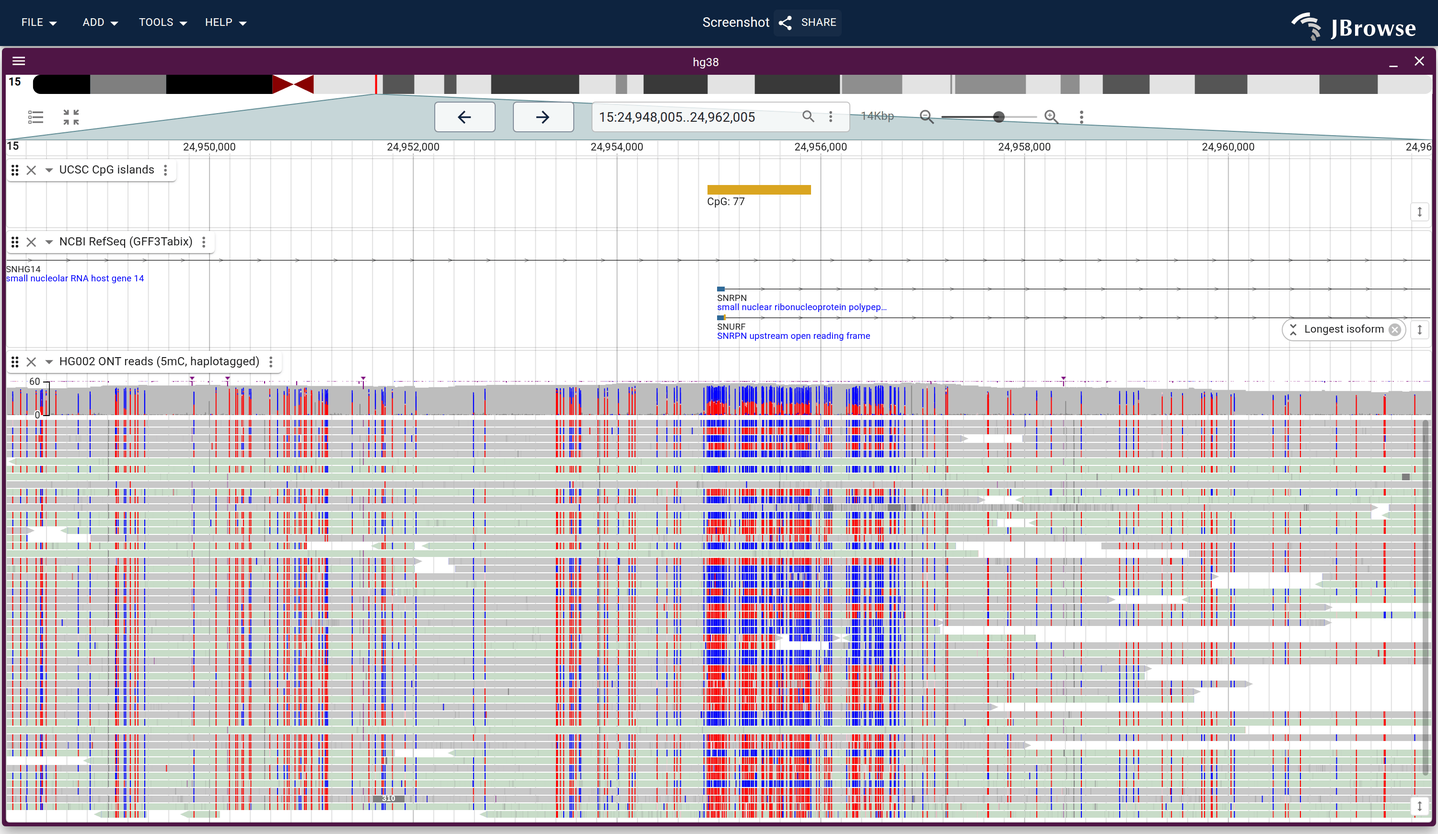
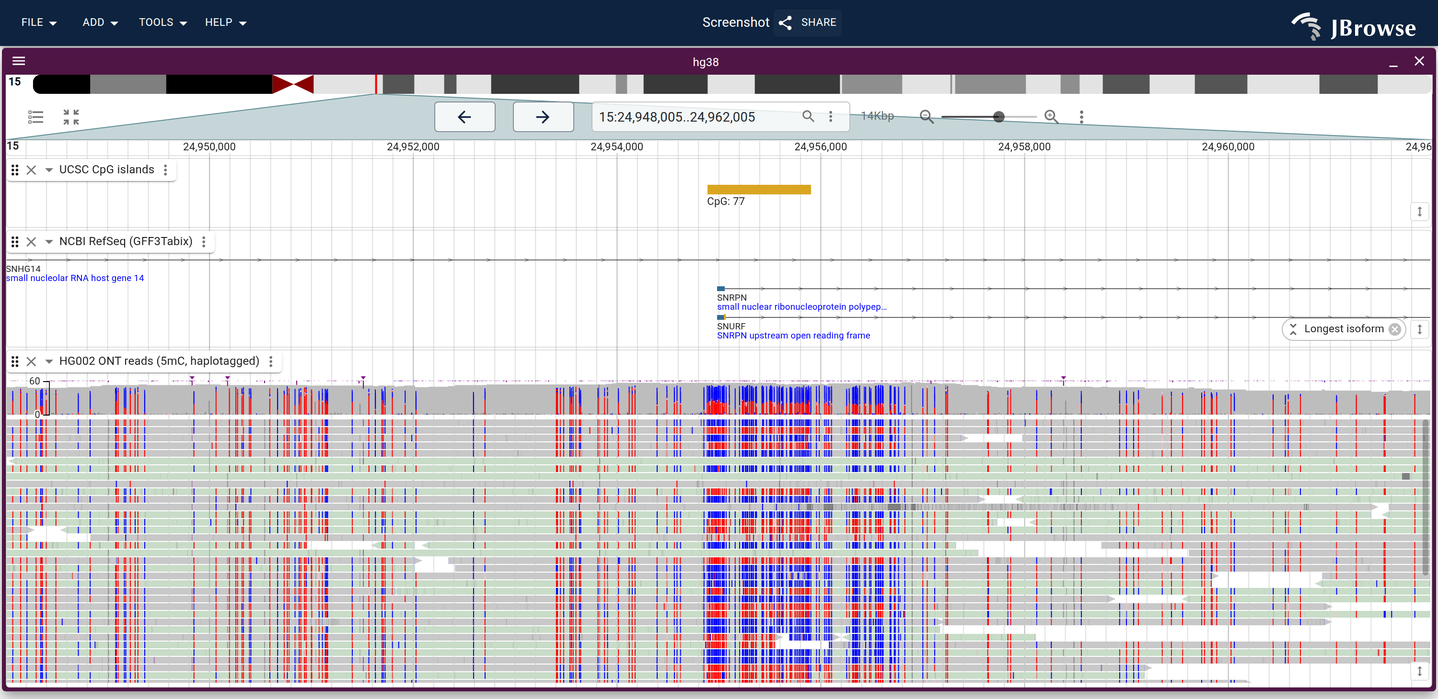
docs(methylation): compose the SNRPN before/after into one figure
Group by HP is the section's whole claim, and it was split across two pictures
sixty lines apart: the reader had to hold the interleaved pileup in mind to see
what the grouping did to it (reviewer). The two states are now one composed
figure in the section that explains the setting, built from two real captures
that differ only in `groupBy`. The reads lane is shorter in each half, since
this figure pays for it twice.

Claude-Session: https://claude.ai/code/session_01MyHV8buqv4ZRohv9DCCNE1

diff --git a/website/src/lib/galleryLinks.generated.ts b/website/src/lib/galleryLinks.generated.ts
@@ -146,7 +146,8 @@ export const specSessionUrls: Record<string, string> = {
   "methylation/arabidopsis_wgbs_contexts": "?config=test_data/arabidopsis_methylation/config_emseq_bisulfite.json&session=spec-%7B%22sessionTracks%22%3A%5B%7B%22type%22%3A%22AlignmentsTrack%22%2C%22trackId%22%3A%22arabidopsis_wgbs_cg%22%2C%22name%22%3A%22Per-read%20WGBS%20%E2%80%94%20CpG%20context%22%2C%22assemblyNames%22%3A%5B%22arabidopsis%22%5D%2C%22adapter%22%3A%7B%22type%22%3A%22CramAdapter%22%2C%22uri%22%3A%22https%3A%2F%2Fjbrowse.org%2Fdemos%2Fbisulfite%2Farabidopsis_wgbs_bisulfite.cram%22%7D%7D%2C%7B%22type%22%3A%22AlignmentsTrack%22%2C%22trackId%22%3A%22arabidopsis_wgbs_chg%22%2C%22name%22%3A%22Per-read%20WGBS%20%E2%80%94%20CHG%20context%22%2C%22assemblyNames%22%3A%5B%22arabidopsis%22%5D%2C%22adapter%22%3A%7B%22type%22%3A%22CramAdapter%22%2C%22uri%22%3A%22https%3A%2F%2Fjbrowse.org%2Fdemos%2Fbisulfite%2Farabidopsis_wgbs_bisulfite.cram%22%7D%7D%2C%7B%22type%22%3A%22AlignmentsTrack%22%2C%22trackId%22%3A%22arabidopsis_wgbs_chh%22%2C%22name%22%3A%22Per-read%20WGBS%20%E2%80%94%20CHH%20context%22%2C%22assemblyNames%22%3A%5B%22arabidopsis%22%5D%2C%22adapter%22%3A%7B%22type%22%3A%22CramAdapter%22%2C%22uri%22%3A%22https%3A%2F%2Fjbrowse.org%2Fdemos%2Fbisulfite%2Farabidopsis_wgbs_bisulfite.cram%22%7D%7D%5D%2C%22views%22%3A%5B%7B%22type%22%3A%22LinearGenomeView%22%2C%22assembly%22%3A%22arabidopsis%22%2C%22loc%22%3A%22NC_003070.9%3A4%2C398%2C000-4%2C412%2C000%22%2C%22tracks%22%3A%5B%7B%22trackId%22%3A%22arabidopsis_genes%22%7D%2C%7B%22trackId%22%3A%22arabidopsis_methyldackel%22%2C%22type%22%3A%22MultiLinearWiggleDisplay%22%2C%22defaultRendering%22%3A%22multirowxy%22%2C%22minScore%22%3A0%2C%22maxScore%22%3A100%2C%22height%22%3A170%7D%2C%7B%22trackId%22%3A%22arabidopsis_wgbs_cg%22%2C%22type%22%3A%22LinearAlignmentsDisplay%22%2C%22colorBy%22%3A%7B%22type%22%3A%22bisulfite%22%2C%22modifications%22%3A%7B%22cytosineContext%22%3A%22CG%22%7D%7D%2C%22showCoverage%22%3Afalse%2C%22heightMode%22%3A%22fixed%22%2C%22featureHeight%22%3A3%2C%22featureSpacing%22%3A0%2C%22height%22%3A90%7D%2C%7B%22trackId%22%3A%22arabidopsis_wgbs_chg%22%2C%22type%22%3A%22LinearAlignmentsDisplay%22%2C%22colorBy%22%3A%7B%22type%22%3A%22bisulfite%22%2C%22modifications%22%3A%7B%22cytosineContext%22%3A%22CHG%22%7D%7D%2C%22showCoverage%22%3Afalse%2C%22heightMode%22%3A%22fixed%22%2C%22featureHeight%22%3A3%2C%22featureSpacing%22%3A0%2C%22height%22%3A90%7D%2C%7B%22trackId%22%3A%22arabidopsis_wgbs_chh%22%2C%22type%22%3A%22LinearAlignmentsDisplay%22%2C%22colorBy%22%3A%7B%22type%22%3A%22bisulfite%22%2C%22modifications%22%3A%7B%22cytosineContext%22%3A%22CHH%22%7D%7D%2C%22showCoverage%22%3Afalse%2C%22heightMode%22%3A%22fixed%22%2C%22featureHeight%22%3A3%2C%22featureSpacing%22%3A0%2C%22height%22%3A90%7D%5D%7D%5D%7D&sessionName=Screenshot",
   "methylation/arabidopsis_wgbs_two_color": "?config=test_data/arabidopsis_methylation/config_emseq_bisulfite.json&session=spec-%7B%22sessionTracks%22%3A%5B%7B%22type%22%3A%22AlignmentsTrack%22%2C%22trackId%22%3A%22arabidopsis_wgbs_methylated_only%22%2C%22name%22%3A%22CpG%20methylation%20(methylated%20only)%22%2C%22assemblyNames%22%3A%5B%22arabidopsis%22%5D%2C%22adapter%22%3A%7B%22type%22%3A%22CramAdapter%22%2C%22uri%22%3A%22https%3A%2F%2Fjbrowse.org%2Fdemos%2Fbisulfite%2Farabidopsis_wgbs_bisulfite.cram%22%7D%7D%2C%7B%22type%22%3A%22AlignmentsTrack%22%2C%22trackId%22%3A%22arabidopsis_wgbs_two_color%22%2C%22name%22%3A%22CpG%20methylation%20(show%20unmethylated)%22%2C%22assemblyNames%22%3A%5B%22arabidopsis%22%5D%2C%22adapter%22%3A%7B%22type%22%3A%22CramAdapter%22%2C%22uri%22%3A%22https%3A%2F%2Fjbrowse.org%2Fdemos%2Fbisulfite%2Farabidopsis_wgbs_bisulfite.cram%22%7D%7D%5D%2C%22views%22%3A%5B%7B%22type%22%3A%22LinearGenomeView%22%2C%22assembly%22%3A%22arabidopsis%22%2C%22loc%22%3A%22NC_003070.9%3A4%2C404%2C000-4%2C408%2C500%22%2C%22tracks%22%3A%5B%7B%22trackId%22%3A%22arabidopsis_genes%22%2C%22height%22%3A80%7D%2C%7B%22trackId%22%3A%22arabidopsis_wgbs_methylated_only%22%2C%22type%22%3A%22LinearAlignmentsDisplay%22%2C%22colorBy%22%3A%7B%22type%22%3A%22bisulfite%22%2C%22modifications%22%3A%7B%22cytosineContext%22%3A%22CG%22%7D%7D%2C%22showCoverage%22%3Afalse%2C%22heightMode%22%3A%22fixed%22%2C%22featureHeight%22%3A5%2C%22featureSpacing%22%3A1%2C%22height%22%3A240%7D%2C%7B%22trackId%22%3A%22arabidopsis_wgbs_two_color%22%2C%22type%22%3A%22LinearAlignmentsDisplay%22%2C%22colorBy%22%3A%7B%22type%22%3A%22bisulfite%22%2C%22modifications%22%3A%7B%22cytosineContext%22%3A%22CG%22%2C%22twoColor%22%3Atrue%7D%7D%2C%22showCoverage%22%3Afalse%2C%22heightMode%22%3A%22fixed%22%2C%22featureHeight%22%3A5%2C%22featureSpacing%22%3A1%2C%22height%22%3A240%7D%5D%7D%5D%7D&sessionName=Screenshot",
   "methylation/chromatin_accessibility_6ma": "?config=test_data/config_demo.json&session=spec-%7B%22sessionTracks%22%3A%5B%7B%22type%22%3A%22FeatureTrack%22%2C%22trackId%22%3A%22gencode_promoter_hg38_ucsc%22%2C%22name%22%3A%22GENCODE%20v48%20promoter%20windows%20(UCSC)%22%2C%22assemblyNames%22%3A%5B%22hg38%22%5D%2C%22adapter%22%3A%7B%22type%22%3A%22Gff3TabixAdapter%22%2C%22gffGzLocation%22%3A%7B%22uri%22%3A%22https%3A%2F%2Fjbrowse.org%2Fucsc%2Fhg38%2Fgencode.v48.promoter_windows.sorted.gff3.gz%22%2C%22locationType%22%3A%22UriLocation%22%7D%2C%22index%22%3A%7B%22location%22%3A%7B%22uri%22%3A%22https%3A%2F%2Fjbrowse.org%2Fucsc%2Fhg38%2Fgencode.v48.promoter_windows.sorted.gff3.gz.csi%22%2C%22locationType%22%3A%22UriLocation%22%7D%2C%22indexType%22%3A%22CSI%22%7D%7D%7D%5D%2C%22views%22%3A%5B%7B%22type%22%3A%22LinearGenomeView%22%2C%22assembly%22%3A%22hg38%22%2C%22loc%22%3A%22chr12%3A6%2C528%2C000-6%2C543%2C000%22%2C%22tracks%22%3A%5B%7B%22trackId%22%3A%22ncbi_refseq_109_hg38_latest%22%2C%22type%22%3A%22LinearBasicDisplay%22%2C%22geneGlyphMode%22%3A%22longestCoding%22%7D%2C%22gencode_promoter_hg38_ucsc%22%2C%7B%22trackId%22%3A%22PAY22766-nanopore%22%2C%22type%22%3A%22LinearAlignmentsDisplay%22%2C%22colorBy%22%3A%7B%22type%22%3A%22modifications%22%2C%22modifications%22%3A%7B%22shownModifications%22%3A%5B%22a%22%5D%7D%7D%2C%22heightMode%22%3A%22fixed%22%2C%22featureHeight%22%3A3%2C%22featureSpacing%22%3A0%2C%22showLegend%22%3Atrue%7D%2C%7B%22trackId%22%3A%22PBA15131-nanopore%22%2C%22type%22%3A%22LinearAlignmentsDisplay%22%2C%22colorBy%22%3A%7B%22type%22%3A%22modifications%22%2C%22modifications%22%3A%7B%22shownModifications%22%3A%5B%22a%22%5D%7D%7D%2C%22heightMode%22%3A%22fixed%22%2C%22featureHeight%22%3A3%2C%22featureSpacing%22%3A0%7D%5D%7D%5D%7D&sessionName=Screenshot",
-  "methylation/hg002_snrpn_ungrouped": "?config=test_data/config_demo.json&session=spec-%7B%22views%22%3A%5B%7B%22type%22%3A%22LinearGenomeView%22%2C%22assembly%22%3A%22hg38%22%2C%22loc%22%3A%22chr15%3A24%2C948%2C000-24%2C962%2C000%22%2C%22tracks%22%3A%5B%7B%22trackId%22%3A%22cpgisland_ucsc_hg38%22%2C%22type%22%3A%22LinearBasicDisplay%22%2C%22height%22%3A40%7D%2C%7B%22trackId%22%3A%22ncbi_refseq_109_hg38_latest%22%2C%22type%22%3A%22LinearBasicDisplay%22%2C%22geneGlyphMode%22%3A%22longestCoding%22%2C%22displayMode%22%3A%22compact%22%2C%22height%22%3A90%7D%2C%7B%22trackId%22%3A%22HG002_snrpn_5mC_reads%22%2C%22type%22%3A%22LinearAlignmentsDisplay%22%2C%22height%22%3A460%2C%22forceLoad%22%3Atrue%2C%22colorBy%22%3A%7B%22type%22%3A%22modifications%22%2C%22modifications%22%3A%7B%22fillUnmarked%22%3Atrue%7D%7D%7D%5D%7D%5D%7D&sessionName=Screenshot",
+  "methylation/hg002_snrpn_ungrouped": "?config=test_data/config_demo.json&session=spec-%7B%22views%22%3A%5B%7B%22type%22%3A%22LinearGenomeView%22%2C%22assembly%22%3A%22hg38%22%2C%22loc%22%3A%22chr15%3A24%2C948%2C000-24%2C962%2C000%22%2C%22tracks%22%3A%5B%7B%22trackId%22%3A%22cpgisland_ucsc_hg38%22%2C%22type%22%3A%22LinearBasicDisplay%22%2C%22height%22%3A40%7D%2C%7B%22trackId%22%3A%22ncbi_refseq_109_hg38_latest%22%2C%22type%22%3A%22LinearBasicDisplay%22%2C%22geneGlyphMode%22%3A%22longestCoding%22%2C%22displayMode%22%3A%22compact%22%2C%22height%22%3A90%7D%2C%7B%22trackId%22%3A%22HG002_snrpn_5mC_reads%22%2C%22type%22%3A%22LinearAlignmentsDisplay%22%2C%22height%22%3A320%2C%22forceLoad%22%3Atrue%2C%22colorBy%22%3A%7B%22type%22%3A%22modifications%22%2C%22modifications%22%3A%7B%22fillUnmarked%22%3Atrue%7D%7D%7D%5D%7D%5D%7D&sessionName=Screenshot",
+  "methylation/hg002_snrpn_grouped": "?config=test_data/config_demo.json&session=spec-%7B%22views%22%3A%5B%7B%22type%22%3A%22LinearGenomeView%22%2C%22assembly%22%3A%22hg38%22%2C%22loc%22%3A%22chr15%3A24%2C948%2C000-24%2C962%2C000%22%2C%22tracks%22%3A%5B%7B%22trackId%22%3A%22cpgisland_ucsc_hg38%22%2C%22type%22%3A%22LinearBasicDisplay%22%2C%22height%22%3A40%7D%2C%7B%22trackId%22%3A%22ncbi_refseq_109_hg38_latest%22%2C%22type%22%3A%22LinearBasicDisplay%22%2C%22geneGlyphMode%22%3A%22longestCoding%22%2C%22displayMode%22%3A%22compact%22%2C%22height%22%3A90%7D%2C%7B%22trackId%22%3A%22HG002_snrpn_5mC_reads%22%2C%22type%22%3A%22LinearAlignmentsDisplay%22%2C%22height%22%3A320%2C%22forceLoad%22%3Atrue%2C%22groupBy%22%3A%7B%22type%22%3A%22tag%22%2C%22tag%22%3A%22HP%22%7D%2C%22colorBy%22%3A%7B%22type%22%3A%22modifications%22%2C%22modifications%22%3A%7B%22fillUnmarked%22%3Atrue%7D%7D%7D%5D%7D%5D%7D&sessionName=Screenshot",
   "methylation/hg002_snrpn_combined": "?config=test_data/config_demo.json&session=spec-%7B%22views%22%3A%5B%7B%22type%22%3A%22LinearGenomeView%22%2C%22assembly%22%3A%22hg38%22%2C%22loc%22%3A%22chr15%3A24%2C948%2C000-24%2C962%2C000%22%2C%22tracks%22%3A%5B%7B%22trackId%22%3A%22cpgisland_ucsc_hg38%22%2C%22type%22%3A%22LinearBasicDisplay%22%2C%22height%22%3A40%7D%2C%7B%22trackId%22%3A%22ncbi_refseq_109_hg38_latest%22%2C%22type%22%3A%22LinearBasicDisplay%22%2C%22geneGlyphMode%22%3A%22longestCoding%22%2C%22displayMode%22%3A%22compact%22%2C%22height%22%3A90%7D%2C%7B%22trackId%22%3A%22HG002_snrpn_modkit_hp1%22%2C%22type%22%3A%22MultiLinearWiggleDisplay%22%2C%22defaultRendering%22%3A%22multirowxy%22%2C%22minScore%22%3A0%2C%22maxScore%22%3A100%2C%22height%22%3A90%7D%2C%7B%22trackId%22%3A%22HG002_snrpn_modkit_hp2%22%2C%22type%22%3A%22MultiLinearWiggleDisplay%22%2C%22defaultRendering%22%3A%22multirowxy%22%2C%22minScore%22%3A0%2C%22maxScore%22%3A100%2C%22height%22%3A90%7D%2C%7B%22trackId%22%3A%22HG002_snrpn_5mC_reads%22%2C%22type%22%3A%22LinearAlignmentsDisplay%22%2C%22height%22%3A460%2C%22forceLoad%22%3Atrue%2C%22groupBy%22%3A%7B%22type%22%3A%22tag%22%2C%22tag%22%3A%22HP%22%7D%2C%22colorBy%22%3A%7B%22type%22%3A%22modifications%22%2C%22modifications%22%3A%7B%22fillUnmarked%22%3Atrue%7D%7D%7D%5D%7D%5D%7D&sessionName=Screenshot",
   "ld/lct_pooled_vs_panel": "?config=https%3A%2F%2Fjbrowse.org%2Fucsc%2Fhg19%2Fconfig.json&session=spec-%7B%22sessionTracks%22%3A%5B%7B%22type%22%3A%22VariantTrack%22%2C%22trackId%22%3A%22kgp_lct_pooled%22%2C%22name%22%3A%22All%20panels%20pooled%20(r%C2%B2)%22%2C%22assemblyNames%22%3A%5B%22hg19%22%5D%2C%22adapter%22%3A%7B%22type%22%3A%22VcfTabixAdapter%22%2C%22uri%22%3A%22https%3A%2F%2Fjbrowse.org%2Fdemos%2Fpopgen%2Flct_1kg_chr2_pooled_wide.vcf.gz%22%2C%22fetchSizeLimit%22%3A500000000%7D%2C%22displays%22%3A%5B%7B%22type%22%3A%22LDDisplay%22%2C%22showLDTriangle%22%3Atrue%2C%22showLegend%22%3Atrue%2C%22showRecombination%22%3Atrue%2C%22minorAlleleFrequencyFilter%22%3A0.35%2C%22height%22%3A330%2C%22useGenomicPositions%22%3Atrue%7D%5D%7D%2C%7B%22type%22%3A%22VariantTrack%22%2C%22trackId%22%3A%22kgp_lct_panel%22%2C%22name%22%3A%22One%20population%20panel%20(r%C2%B2)%22%2C%22assemblyNames%22%3A%5B%22hg19%22%5D%2C%22adapter%22%3A%7B%22type%22%3A%22VcfTabixAdapter%22%2C%22uri%22%3A%22https%3A%2F%2Fjbrowse.org%2Fdemos%2Fpopgen%2Flct_1kg_chr2_eur_wide.vcf.gz%22%2C%22fetchSizeLimit%22%3A500000000%7D%2C%22displays%22%3A%5B%7B%22type%22%3A%22LDDisplay%22%2C%22showLDTriangle%22%3Atrue%2C%22showLegend%22%3Atrue%2C%22showRecombination%22%3Atrue%2C%22minorAlleleFrequencyFilter%22%3A0.35%2C%22height%22%3A330%2C%22useGenomicPositions%22%3Atrue%7D%5D%7D%5D%2C%22views%22%3A%5B%7B%22type%22%3A%22LinearGenomeView%22%2C%22assembly%22%3A%22hg19%22%2C%22loc%22%3A%22chr2%3A134%2C700%2C000-137%2C800%2C000%22%2C%22highlight%22%3A%5B%7B%22refName%22%3A%22chr2%22%2C%22start%22%3A136545410%2C%22end%22%3A136634000%2C%22assemblyName%22%3A%22hg19%22%7D%5D%2C%22tracks%22%3A%5B%7B%22trackId%22%3A%22hg19-ncbiRefSeqCurated%22%2C%22type%22%3A%22LinearBasicDisplay%22%2C%22height%22%3A60%2C%22showOnlyGenes%22%3Atrue%7D%2C%7B%22trackId%22%3A%22kgp_lct_pooled%22%2C%22type%22%3A%22LDDisplay%22%7D%2C%7B%22trackId%22%3A%22kgp_lct_panel%22%2C%22type%22%3A%22LDDisplay%22%7D%5D%7D%5D%7D&sessionName=Screenshot",
   "ld/anopheles_2la": "?config=https%3A%2F%2Fjbrowse.org%2Fucsc%2FanoGam3%2Fconfig.json&session=spec-%7B%22sessionTracks%22%3A%5B%7B%22type%22%3A%22LDTrack%22%2C%22trackId%22%3A%22ag1000g_2l_cmgam%22%2C%22name%22%3A%22Cameroon%2C%20both%20arrangements%20segregating%20(r%C2%B2)%22%2C%22assemblyNames%22%3A%5B%22anoGam3%22%5D%2C%22adapter%22%3A%7B%22type%22%3A%22PlinkLDTabixAdapter%22%2C%22uri%22%3A%22https%3A%2F%2Fjbrowse.org%2Fdemos%2Fpopgen%2Fag1000g_2L_CMgam.ld.gz%22%7D%2C%22displays%22%3A%5B%7B%22type%22%3A%22LDTrackDisplay%22%2C%22ldMetric%22%3A%22r2%22%2C%22useGenomicPositions%22%3Atrue%2C%22showLegend%22%3Atrue%2C%22height%22%3A300%7D%5D%7D%2C%7B%22type%22%3A%22VariantTrack%22%2C%22trackId%22%3A%22ag1000g_2la_karyotype_cmgam%22%2C%22name%22%3A%22Cameroon%2C%20one%20row%20per%20mosquito%22%2C%22assemblyNames%22%3A%5B%22anoGam3%22%5D%2C%22adapter%22%3A%7B%22type%22%3A%22VcfTabixAdapter%22%2C%22uri%22%3A%22https%3A%2F%2Fjbrowse.org%2Fdemos%2Fpopgen%2Fag1000g_2La_CMgam.vcf.gz%22%2C%22samplesTsvLocation%22%3A%7B%22uri%22%3A%22https%3A%2F%2Fjbrowse.org%2Fdemos%2Fpopgen%2Fag1000g_2La_CMgam_samples.tsv%22%7D%7D%2C%22displays%22%3A%5B%7B%22type%22%3A%22LinearMultiSampleVariantDisplay%22%2C%22groupBy%22%3A%22karyotype%22%2C%22colorBy%22%3A%22karyotype%22%2C%22referenceDrawingMode%22%3A%22skip%22%2C%22height%22%3A297%7D%5D%7D%2C%7B%22type%22%3A%22LDTrack%22%2C%22trackId%22%3A%22ag1000g_2l_gagam%22%2C%22name%22%3A%22Gabon%2C%20one%20arrangement%20in%20almost%20every%20mosquito%20(r%C2%B2)%22%2C%22assemblyNames%22%3A%5B%22anoGam3%22%5D%2C%22adapter%22%3A%7B%22type%22%3A%22PlinkLDTabixAdapter%22%2C%22uri%22%3A%22https%3A%2F%2Fjbrowse.org%2Fdemos%2Fpopgen%2Fag1000g_2L_GAgam.ld.gz%22%7D%2C%22displays%22%3A%5B%7B%22type%22%3A%22LDTrackDisplay%22%2C%22ldMetric%22%3A%22r2%22%2C%22useGenomicPositions%22%3Atrue%2C%22showLegend%22%3Atrue%2C%22height%22%3A300%7D%5D%7D%2C%7B%22type%22%3A%22VariantTrack%22%2C%22trackId%22%3A%22ag1000g_2la_karyotype_gagam%22%2C%22name%22%3A%22Gabon%2C%20one%20row%20per%20mosquito%22%2C%22assemblyNames%22%3A%5B%22anoGam3%22%5D%2C%22adapter%22%3A%7B%22type%22%3A%22VcfTabixAdapter%22%2C%22uri%22%3A%22https%3A%2F%2Fjbrowse.org%2Fdemos%2Fpopgen%2Fag1000g_2La_GAgam.vcf.gz%22%2C%22samplesTsvLocation%22%3A%7B%22uri%22%3A%22https%3A%2F%2Fjbrowse.org%2Fdemos%2Fpopgen%2Fag1000g_2La_GAgam_samples.tsv%22%7D%7D%2C%22displays%22%3A%5B%7B%22type%22%3A%22LinearMultiSampleVariantDisplay%22%2C%22groupBy%22%3A%22karyotype%22%2C%22colorBy%22%3A%22karyotype%22%2C%22referenceDrawingMode%22%3A%22skip%22%2C%22height%22%3A240%7D%5D%7D%5D%2C%22views%22%3A%5B%7B%22type%22%3A%22LinearGenomeView%22%2C%22assembly%22%3A%22anoGam3%22%2C%22loc%22%3A%22chr2L%22%2C%22tracks%22%3A%5B%7B%22trackId%22%3A%22ag1000g_2l_cmgam%22%2C%22type%22%3A%22LDTrackDisplay%22%7D%2C%7B%22trackId%22%3A%22ag1000g_2la_karyotype_cmgam%22%2C%22type%22%3A%22LinearMultiSampleVariantDisplay%22%7D%2C%7B%22trackId%22%3A%22ag1000g_2l_gagam%22%2C%22type%22%3A%22LDTrackDisplay%22%7D%2C%7B%22trackId%22%3A%22ag1000g_2la_karyotype_gagam%22%2C%22type%22%3A%22LinearMultiSampleVariantDisplay%22%7D%5D%7D%5D%7D&sessionName=Screenshot",
@@ -179,7 +180,7 @@ export const specSessionUrls: Record<string, string> = {
   "sv_cgiab/cnv_depth_baf": "?config=https%3A%2F%2Fjbrowse.org%2Fdemos%2Fcgiab%2Fconfig.json&session=spec-%7B%22sessionTracks%22%3A%5B%7B%22type%22%3A%22QuantitativeTrack%22%2C%22trackId%22%3A%22hg008_bicseq2%22%2C%22name%22%3A%22HG008-T%20copy%20ratio%2C%20segmented%20(NYGC%20BIC-seq2%2C%20log2%20T%2FN)%22%2C%22assemblyNames%22%3A%5B%22GRCh38_GIABv3%22%5D%2C%22adapter%22%3A%7B%22type%22%3A%22BedGraphAdapter%22%2C%22bedGraphLocation%22%3A%7B%22uri%22%3A%22https%3A%2F%2Fjbrowse.org%2Fdemos%2Fcgiab%2FHG008-T_bicseq2_log2ratio.bedgraph%22%2C%22locationType%22%3A%22UriLocation%22%7D%7D%7D%2C%7B%22type%22%3A%22QuantitativeTrack%22%2C%22trackId%22%3A%22hg008_depth%22%2C%22name%22%3A%22HG008-T%20HiFiCNV%20depth%22%2C%22assemblyNames%22%3A%5B%22GRCh38_GIABv3%22%5D%2C%22adapter%22%3A%7B%22type%22%3A%22BigWigAdapter%22%2C%22bigWigLocation%22%3A%7B%22uri%22%3A%22https%3A%2F%2Fjbrowse.org%2Fdemos%2Fcgiab%2FHG008-T.hificnv.depth.bw%22%2C%22locationType%22%3A%22UriLocation%22%7D%7D%7D%2C%7B%22type%22%3A%22QuantitativeTrack%22%2C%22trackId%22%3A%22hg008_baf%22%2C%22name%22%3A%22HG008-T%20B-allele%20frequency%20(BAF)%22%2C%22assemblyNames%22%3A%5B%22GRCh38_GIABv3%22%5D%2C%22adapter%22%3A%7B%22type%22%3A%22BigWigAdapter%22%2C%22bigWigLocation%22%3A%7B%22uri%22%3A%22https%3A%2F%2Fjbrowse.org%2Fdemos%2Fcgiab%2FHG008-T_baf.bcftools.bw%22%2C%22locationType%22%3A%22UriLocation%22%7D%2C%22resolutionMultiplier%22%3A0.001%7D%7D%5D%2C%22views%22%3A%5B%7B%22type%22%3A%22LinearGenomeView%22%2C%22assembly%22%3A%22GRCh38_GIABv3%22%2C%22loc%22%3A%22chr3%22%2C%22tracks%22%3A%5B%7B%22trackId%22%3A%22hg008_bicseq2%22%2C%22type%22%3A%22LinearWiggleDisplay%22%2C%22defaultRendering%22%3A%22line%22%2C%22useBicolor%22%3Afalse%2C%22displayCrossHatches%22%3Atrue%2C%22minScore%22%3A-2%2C%22maxScore%22%3A1.5%2C%22height%22%3A90%7D%2C%7B%22trackId%22%3A%22hg008_depth%22%2C%22type%22%3A%22LinearWiggleDisplay%22%2C%22defaultRendering%22%3A%22scatter%22%2C%22useBicolor%22%3Afalse%2C%22summaryScoreMode%22%3A%22avg%22%2C%22scatterPointSize%22%3A1%2C%22resolution%22%3A10%2C%22height%22%3A180%2C%22displayCrossHatches%22%3Atrue%7D%2C%7B%22trackId%22%3A%22hg008_baf%22%2C%22type%22%3A%22LinearWiggleDisplay%22%2C%22defaultRendering%22%3A%22scatter%22%2C%22scatterPointSize%22%3A1%2C%22minScore%22%3A0%2C%22maxScore%22%3A1%2C%22height%22%3A140%7D%2C%22hg008_cnv_calls%22%5D%7D%5D%7D&sessionName=Screenshot",
   "sv_cgiab/driver_cdkn2a_deletion": "?config=https%3A%2F%2Fjbrowse.org%2Fdemos%2Fcgiab%2Fconfig.json&session=spec-%7B%22sessionTracks%22%3A%5B%7B%22type%22%3A%22MultiQuantitativeTrack%22%2C%22trackId%22%3A%22hg008_tn_perbase%22%2C%22name%22%3A%22HG008%20tumor%20vs%20matched%20normal%20coverage%20(per-base)%22%2C%22assemblyNames%22%3A%5B%22GRCh38_GIABv3%22%5D%2C%22adapter%22%3A%7B%22type%22%3A%22MultiWiggleAdapter%22%2C%22subadapters%22%3A%5B%7B%22type%22%3A%22BigWigAdapter%22%2C%22name%22%3A%22HG008-T%20(tumor)%22%2C%22color%22%3A%22%23e41a1c%22%2C%22bigWigLocation%22%3A%7B%22uri%22%3A%22https%3A%2F%2Fjbrowse.org%2Fdemos%2Fcgiab%2FHG008-T_coverage_perbase.bw%22%2C%22locationType%22%3A%22UriLocation%22%7D%7D%2C%7B%22type%22%3A%22BigWigAdapter%22%2C%22name%22%3A%22HG008-N%20(normal)%22%2C%22color%22%3A%22%23377eb8%22%2C%22bigWigLocation%22%3A%7B%22uri%22%3A%22https%3A%2F%2Fjbrowse.org%2Fdemos%2Fcgiab%2FHG008-N-P_PacBio-HiFi-Revio_20240125_35x_GRCh38-GIABv3.cram.all.bw%22%2C%22locationType%22%3A%22UriLocation%22%7D%7D%5D%7D%7D%2C%7B%22type%22%3A%22AlignmentsTrack%22%2C%22trackId%22%3A%22hg008_t_reads_cdkn2a%22%2C%22name%22%3A%22HG008-T%20PacBio%20HiFi%20reads%22%2C%22assemblyNames%22%3A%5B%22GRCh38_GIABv3%22%5D%2C%22adapter%22%3A%7B%22type%22%3A%22BamAdapter%22%2C%22fetchSizeLimit%22%3A30000000%2C%22bamLocation%22%3A%7B%22uri%22%3A%22https%3A%2F%2Fjbrowse.org%2Fdemos%2Fcgiab%2FHG008-T_PacBio-HiFi-Revio_116x.demo_slices.bam%22%2C%22locationType%22%3A%22UriLocation%22%7D%2C%22index%22%3A%7B%22indexType%22%3A%22BAI%22%2C%22location%22%3A%7B%22uri%22%3A%22https%3A%2F%2Fjbrowse.org%2Fdemos%2Fcgiab%2FHG008-T_PacBio-HiFi-Revio_116x.demo_slices.bam.bai%22%2C%22locationType%22%3A%22UriLocation%22%7D%7D%7D%7D%5D%2C%22views%22%3A%5B%7B%22type%22%3A%22LinearGenomeView%22%2C%22assembly%22%3A%22GRCh38_GIABv3%22%2C%22loc%22%3A%22chr9%3A21%2C930%2C000-21%2C990%2C000%22%2C%22trackLabels%22%3A%22offset%22%2C%22tracks%22%3A%5B%7B%22trackId%22%3A%22hg38_ncbiRefSeq_ucsc%22%2C%22type%22%3A%22LinearBasicDisplay%22%2C%22geneGlyphMode%22%3A%22longestCoding%22%7D%2C%7B%22trackId%22%3A%22hg008_tn_perbase%22%2C%22type%22%3A%22MultiLinearWiggleDisplay%22%2C%22defaultRendering%22%3A%22multirowxy%22%2C%22summaryScoreMode%22%3A%22avg%22%2C%22minScore%22%3A0%2C%22maxScore%22%3A80%2C%22resolution%22%3A10%2C%22displayCrossHatches%22%3Afalse%2C%22height%22%3A280%7D%2C%7B%22trackId%22%3A%22hg008_t_reads_cdkn2a%22%2C%22type%22%3A%22LinearAlignmentsDisplay%22%2C%22heightMode%22%3A%22fixed%22%2C%22featureHeight%22%3A1%2C%22height%22%3A160%7D%2C%22hg008_cnv_calls%22%5D%7D%5D%7D&sessionName=Screenshot",
   "sv_cgiab/driver_kras_gain": "?config=https%3A%2F%2Fjbrowse.org%2Fdemos%2Fcgiab%2Fconfig.json&session=spec-%7B%22sessionTracks%22%3A%5B%7B%22type%22%3A%22QuantitativeTrack%22%2C%22trackId%22%3A%22hg008_bicseq2%22%2C%22name%22%3A%22HG008-T%20copy%20ratio%2C%20segmented%20(NYGC%20BIC-seq2%2C%20log2%20T%2FN)%22%2C%22assemblyNames%22%3A%5B%22GRCh38_GIABv3%22%5D%2C%22adapter%22%3A%7B%22type%22%3A%22BedGraphAdapter%22%2C%22bedGraphLocation%22%3A%7B%22uri%22%3A%22https%3A%2F%2Fjbrowse.org%2Fdemos%2Fcgiab%2FHG008-T_bicseq2_log2ratio.bedgraph%22%2C%22locationType%22%3A%22UriLocation%22%7D%7D%7D%2C%7B%22type%22%3A%22QuantitativeTrack%22%2C%22trackId%22%3A%22hg008_depth%22%2C%22name%22%3A%22HG008-T%20HiFiCNV%20depth%22%2C%22assemblyNames%22%3A%5B%22GRCh38_GIABv3%22%5D%2C%22adapter%22%3A%7B%22type%22%3A%22BigWigAdapter%22%2C%22bigWigLocation%22%3A%7B%22uri%22%3A%22https%3A%2F%2Fjbrowse.org%2Fdemos%2Fcgiab%2FHG008-T.hificnv.depth.bw%22%2C%22locationType%22%3A%22UriLocation%22%7D%7D%7D%2C%7B%22type%22%3A%22QuantitativeTrack%22%2C%22trackId%22%3A%22hg008_baf%22%2C%22name%22%3A%22HG008-T%20B-allele%20frequency%20(BAF)%22%2C%22assemblyNames%22%3A%5B%22GRCh38_GIABv3%22%5D%2C%22adapter%22%3A%7B%22type%22%3A%22BigWigAdapter%22%2C%22bigWigLocation%22%3A%7B%22uri%22%3A%22https%3A%2F%2Fjbrowse.org%2Fdemos%2Fcgiab%2FHG008-T_baf.bcftools.bw%22%2C%22locationType%22%3A%22UriLocation%22%7D%2C%22resolutionMultiplier%22%3A0.001%7D%7D%5D%2C%22views%22%3A%5B%7B%22type%22%3A%22LinearGenomeView%22%2C%22assembly%22%3A%22GRCh38_GIABv3%22%2C%22loc%22%3A%22chr12%3A23%2C000%2C000-27%2C500%2C000%22%2C%22tracks%22%3A%5B%7B%22trackId%22%3A%22hg38_ncbiRefSeq_ucsc%22%2C%22type%22%3A%22LinearBasicDisplay%22%2C%22height%22%3A150%2C%22featureHighlights%22%3A%5B%7B%22refName%22%3A%22chr12%22%2C%22start%22%3A25205245%2C%22end%22%3A25250929%2C%22name%22%3A%22KRAS%22%7D%5D%7D%2C%7B%22trackId%22%3A%22hg008_bicseq2%22%2C%22type%22%3A%22LinearWiggleDisplay%22%2C%22defaultRendering%22%3A%22line%22%2C%22useBicolor%22%3Afalse%2C%22displayCrossHatches%22%3Atrue%2C%22minScore%22%3A-2%2C%22maxScore%22%3A1.5%2C%22height%22%3A90%7D%2C%7B%22trackId%22%3A%22hg008_depth%22%2C%22type%22%3A%22LinearWiggleDisplay%22%2C%22defaultRendering%22%3A%22scatter%22%2C%22useBicolor%22%3Afalse%2C%22summaryScoreMode%22%3A%22avg%22%2C%22scatterPointSize%22%3A3%2C%22height%22%3A140%2C%22resolution%22%3A10%7D%2C%7B%22trackId%22%3A%22hg008_baf%22%2C%22type%22%3A%22LinearWiggleDisplay%22%2C%22defaultRendering%22%3A%22scatter%22%2C%22scatterPointSize%22%3A2%2C%22minScore%22%3A0%2C%22maxScore%22%3A1%2C%22height%22%3A140%7D%2C%22hg008_cnv_calls%22%5D%7D%5D%7D&sessionName=Screenshot",
-  "sv_cgiab/cnv_chr17_loh": "?config=https%3A%2F%2Fjbrowse.org%2Fdemos%2Fcgiab%2Fconfig.json&session=spec-%7B%22sessionTracks%22%3A%5B%7B%22type%22%3A%22QuantitativeTrack%22%2C%22trackId%22%3A%22hg008_bicseq2%22%2C%22name%22%3A%22HG008-T%20copy%20ratio%2C%20segmented%20(NYGC%20BIC-seq2%2C%20log2%20T%2FN)%22%2C%22assemblyNames%22%3A%5B%22GRCh38_GIABv3%22%5D%2C%22adapter%22%3A%7B%22type%22%3A%22BedGraphAdapter%22%2C%22bedGraphLocation%22%3A%7B%22uri%22%3A%22https%3A%2F%2Fjbrowse.org%2Fdemos%2Fcgiab%2FHG008-T_bicseq2_log2ratio.bedgraph%22%2C%22locationType%22%3A%22UriLocation%22%7D%7D%7D%2C%7B%22type%22%3A%22QuantitativeTrack%22%2C%22trackId%22%3A%22hg008_depth%22%2C%22name%22%3A%22HG008-T%20HiFiCNV%20depth%22%2C%22assemblyNames%22%3A%5B%22GRCh38_GIABv3%22%5D%2C%22adapter%22%3A%7B%22type%22%3A%22BigWigAdapter%22%2C%22bigWigLocation%22%3A%7B%22uri%22%3A%22https%3A%2F%2Fjbrowse.org%2Fdemos%2Fcgiab%2FHG008-T.hificnv.depth.bw%22%2C%22locationType%22%3A%22UriLocation%22%7D%7D%7D%2C%7B%22type%22%3A%22QuantitativeTrack%22%2C%22trackId%22%3A%22hg008_baf%22%2C%22name%22%3A%22HG008-T%20B-allele%20frequency%20(BAF)%22%2C%22assemblyNames%22%3A%5B%22GRCh38_GIABv3%22%5D%2C%22adapter%22%3A%7B%22type%22%3A%22BigWigAdapter%22%2C%22bigWigLocation%22%3A%7B%22uri%22%3A%22https%3A%2F%2Fjbrowse.org%2Fdemos%2Fcgiab%2FHG008-T_baf.bcftools.bw%22%2C%22locationType%22%3A%22UriLocation%22%7D%2C%22resolutionMultiplier%22%3A0.001%7D%7D%5D%2C%22views%22%3A%5B%7B%22type%22%3A%22LinearGenomeView%22%2C%22assembly%22%3A%22GRCh38_GIABv3%22%2C%22loc%22%3A%22chr17%3A1-83%2C257%2C441%22%2C%22trackLabels%22%3A%22offset%22%2C%22tracks%22%3A%5B%7B%22trackId%22%3A%22hg008_bicseq2%22%2C%22type%22%3A%22LinearWiggleDisplay%22%2C%22defaultRendering%22%3A%22line%22%2C%22useBicolor%22%3Afalse%2C%22displayCrossHatches%22%3Atrue%2C%22minScore%22%3A-2%2C%22maxScore%22%3A1.5%2C%22height%22%3A90%7D%2C%7B%22trackId%22%3A%22hg008_depth%22%2C%22type%22%3A%22LinearWiggleDisplay%22%2C%22defaultRendering%22%3A%22scatter%22%2C%22useBicolor%22%3Afalse%2C%22summaryScoreMode%22%3A%22avg%22%2C%22scatterPointSize%22%3A1%2C%22height%22%3A140%2C%22resolution%22%3A10%7D%2C%7B%22trackId%22%3A%22hg008_baf%22%2C%22type%22%3A%22LinearWiggleDisplay%22%2C%22defaultRendering%22%3A%22scatter%22%2C%22scatterPointSize%22%3A1%2C%22minScore%22%3A0%2C%22maxScore%22%3A1%2C%22height%22%3A140%7D%2C%22hg008_cnv_calls%22%5D%7D%5D%7D&sessionName=Screenshot",
+  "sv_cgiab/cnv_chr17_loh": "?config=https%3A%2F%2Fjbrowse.org%2Fdemos%2Fcgiab%2Fconfig.json&session=spec-%7B%22sessionTracks%22%3A%5B%7B%22type%22%3A%22FeatureTrack%22%2C%22trackId%22%3A%22mane_hg38%22%2C%22name%22%3A%22TP53%20(MANE%20Select%2C%20NCBI%20RefSeq%201.4)%22%2C%22assemblyNames%22%3A%5B%22GRCh38_GIABv3%22%5D%2C%22adapter%22%3A%7B%22type%22%3A%22BigBedAdapter%22%2C%22bigBedLocation%22%3A%7B%22uri%22%3A%22https%3A%2F%2Fftp.ncbi.nlm.nih.gov%2Frefseq%2FMANE%2Ftrackhub%2Fdata%2Frelease_1.4%2FMANE.GRCh38.v1.4.refseq.bb%22%2C%22locationType%22%3A%22UriLocation%22%7D%7D%7D%2C%7B%22type%22%3A%22QuantitativeTrack%22%2C%22trackId%22%3A%22hg008_bicseq2%22%2C%22name%22%3A%22HG008-T%20copy%20ratio%2C%20segmented%20(NYGC%20BIC-seq2%2C%20log2%20T%2FN)%22%2C%22assemblyNames%22%3A%5B%22GRCh38_GIABv3%22%5D%2C%22adapter%22%3A%7B%22type%22%3A%22BedGraphAdapter%22%2C%22bedGraphLocation%22%3A%7B%22uri%22%3A%22https%3A%2F%2Fjbrowse.org%2Fdemos%2Fcgiab%2FHG008-T_bicseq2_log2ratio.bedgraph%22%2C%22locationType%22%3A%22UriLocation%22%7D%7D%7D%2C%7B%22type%22%3A%22QuantitativeTrack%22%2C%22trackId%22%3A%22hg008_depth%22%2C%22name%22%3A%22HG008-T%20HiFiCNV%20depth%22%2C%22assemblyNames%22%3A%5B%22GRCh38_GIABv3%22%5D%2C%22adapter%22%3A%7B%22type%22%3A%22BigWigAdapter%22%2C%22bigWigLocation%22%3A%7B%22uri%22%3A%22https%3A%2F%2Fjbrowse.org%2Fdemos%2Fcgiab%2FHG008-T.hificnv.depth.bw%22%2C%22locationType%22%3A%22UriLocation%22%7D%7D%7D%2C%7B%22type%22%3A%22QuantitativeTrack%22%2C%22trackId%22%3A%22hg008_baf%22%2C%22name%22%3A%22HG008-T%20B-allele%20frequency%20(BAF)%22%2C%22assemblyNames%22%3A%5B%22GRCh38_GIABv3%22%5D%2C%22adapter%22%3A%7B%22type%22%3A%22BigWigAdapter%22%2C%22bigWigLocation%22%3A%7B%22uri%22%3A%22https%3A%2F%2Fjbrowse.org%2Fdemos%2Fcgiab%2FHG008-T_baf.bcftools.bw%22%2C%22locationType%22%3A%22UriLocation%22%7D%2C%22resolutionMultiplier%22%3A0.001%7D%7D%5D%2C%22views%22%3A%5B%7B%22type%22%3A%22LinearGenomeView%22%2C%22assembly%22%3A%22GRCh38_GIABv3%22%2C%22loc%22%3A%22chr17%3A1-83%2C257%2C441%22%2C%22tracks%22%3A%5B%7B%22trackId%22%3A%22mane_hg38%22%2C%22type%22%3A%22LinearBasicDisplay%22%2C%22jexlFiltersSetting%22%3A%5B%22jexl%3Aget(feature%2C'name')%3D%3D'NM_000546.6'%22%5D%2C%22forceLoad%22%3Atrue%2C%22height%22%3A50%7D%2C%7B%22trackId%22%3A%22hg008_bicseq2%22%2C%22type%22%3A%22LinearWiggleDisplay%22%2C%22defaultRendering%22%3A%22line%22%2C%22useBicolor%22%3Afalse%2C%22displayCrossHatches%22%3Atrue%2C%22minScore%22%3A-2%2C%22maxScore%22%3A1.5%2C%22height%22%3A90%7D%2C%7B%22trackId%22%3A%22hg008_depth%22%2C%22type%22%3A%22LinearWiggleDisplay%22%2C%22defaultRendering%22%3A%22scatter%22%2C%22useBicolor%22%3Afalse%2C%22summaryScoreMode%22%3A%22avg%22%2C%22scatterPointSize%22%3A1%2C%22height%22%3A140%2C%22resolution%22%3A10%7D%2C%7B%22trackId%22%3A%22hg008_baf%22%2C%22type%22%3A%22LinearWiggleDisplay%22%2C%22defaultRendering%22%3A%22scatter%22%2C%22scatterPointSize%22%3A1%2C%22minScore%22%3A0%2C%22maxScore%22%3A1%2C%22height%22%3A140%7D%2C%22hg008_cnv_calls%22%5D%7D%5D%7D&sessionName=Screenshot",
   "sv_cgiab/driver_smad4_loh": "?config=https%3A%2F%2Fjbrowse.org%2Fdemos%2Fcgiab%2Fconfig.json&session=spec-%7B%22sessionTracks%22%3A%5B%7B%22type%22%3A%22QuantitativeTrack%22%2C%22trackId%22%3A%22hg008_bicseq2%22%2C%22name%22%3A%22HG008-T%20copy%20ratio%2C%20segmented%20(NYGC%20BIC-seq2%2C%20log2%20T%2FN)%22%2C%22assemblyNames%22%3A%5B%22GRCh38_GIABv3%22%5D%2C%22adapter%22%3A%7B%22type%22%3A%22BedGraphAdapter%22%2C%22bedGraphLocation%22%3A%7B%22uri%22%3A%22https%3A%2F%2Fjbrowse.org%2Fdemos%2Fcgiab%2FHG008-T_bicseq2_log2ratio.bedgraph%22%2C%22locationType%22%3A%22UriLocation%22%7D%7D%7D%2C%7B%22type%22%3A%22QuantitativeTrack%22%2C%22trackId%22%3A%22hg008_depth%22%2C%22name%22%3A%22HG008-T%20HiFiCNV%20depth%22%2C%22assemblyNames%22%3A%5B%22GRCh38_GIABv3%22%5D%2C%22adapter%22%3A%7B%22type%22%3A%22BigWigAdapter%22%2C%22bigWigLocation%22%3A%7B%22uri%22%3A%22https%3A%2F%2Fjbrowse.org%2Fdemos%2Fcgiab%2FHG008-T.hificnv.depth.bw%22%2C%22locationType%22%3A%22UriLocation%22%7D%7D%7D%2C%7B%22type%22%3A%22QuantitativeTrack%22%2C%22trackId%22%3A%22hg008_baf%22%2C%22name%22%3A%22HG008-T%20B-allele%20frequency%20(BAF)%22%2C%22assemblyNames%22%3A%5B%22GRCh38_GIABv3%22%5D%2C%22adapter%22%3A%7B%22type%22%3A%22BigWigAdapter%22%2C%22bigWigLocation%22%3A%7B%22uri%22%3A%22https%3A%2F%2Fjbrowse.org%2Fdemos%2Fcgiab%2FHG008-T_baf.bcftools.bw%22%2C%22locationType%22%3A%22UriLocation%22%7D%2C%22resolutionMultiplier%22%3A0.001%7D%7D%5D%2C%22views%22%3A%5B%7B%22type%22%3A%22LinearGenomeView%22%2C%22assembly%22%3A%22GRCh38_GIABv3%22%2C%22loc%22%3A%22chr18%3A1-80%2C373%2C285%22%2C%22trackLabels%22%3A%22offset%22%2C%22tracks%22%3A%5B%7B%22trackId%22%3A%22hg008_bicseq2%22%2C%22type%22%3A%22LinearWiggleDisplay%22%2C%22defaultRendering%22%3A%22line%22%2C%22useBicolor%22%3Afalse%2C%22displayCrossHatches%22%3Atrue%2C%22minScore%22%3A-2%2C%22maxScore%22%3A1.5%2C%22height%22%3A90%7D%2C%7B%22trackId%22%3A%22hg008_depth%22%2C%22type%22%3A%22LinearWiggleDisplay%22%2C%22defaultRendering%22%3A%22scatter%22%2C%22useBicolor%22%3Afalse%2C%22summaryScoreMode%22%3A%22avg%22%2C%22scatterPointSize%22%3A1%2C%22height%22%3A140%2C%22resolution%22%3A10%7D%2C%7B%22trackId%22%3A%22hg008_baf%22%2C%22type%22%3A%22LinearWiggleDisplay%22%2C%22defaultRendering%22%3A%22scatter%22%2C%22scatterPointSize%22%3A1%2C%22minScore%22%3A0%2C%22maxScore%22%3A1%2C%22height%22%3A140%7D%2C%22hg008_cnv_calls%22%5D%7D%5D%7D&sessionName=Screenshot",
   "sv_inspector_importform_after": "?config=test_data/config_demo.json&session=spec-%7B%22views%22%3A%5B%7B%22type%22%3A%22SvInspectorView%22%7D%5D%7D&sessionName=Screenshot",
   "cancer_sv/multihop_tumour_vs_normal": "?config=https%3A%2F%2Fjbrowse.org%2Fdemos%2Fcancer_sv%2Fconfig.json&session=spec-%7B%22views%22%3A%5B%7B%22type%22%3A%22LinearGenomeView%22%2C%22assembly%22%3A%22hg38%22%2C%22loc%22%3A%22chr3%3A25%2C357%2C600-25%2C361%2C000%22%2C%22tracks%22%3A%5B%7B%22trackId%22%3A%22COLO829_somatic_sv%22%2C%22height%22%3A60%7D%2C%7B%22trackId%22%3A%22COLO829_tumor_ont%22%2C%22showSoftClipping%22%3Atrue%2C%22height%22%3A350%2C%22featureHeight%22%3A1%2C%22featureSpacing%22%3A0%7D%2C%7B%22trackId%22%3A%22COLO829BL_normal_ont%22%2C%22showSoftClipping%22%3Atrue%2C%22height%22%3A190%2C%22featureHeight%22%3A1%2C%22featureSpacing%22%3A0%7D%5D%7D%5D%7D&sessionName=Screenshot",

diff --git a/website/scripts/specs/methylation.ts b/website/scripts/specs/methylation.ts
@@ -290,12 +290,16 @@ export const methylationSpecs: ScreenshotSpec[] = [
     viewportHeight: 1000,
   },
 
-  // The same reads as the combined figure below, before Group by HP: the state
-  // the tutorial describes as carrying the answer without showing it. Methylated
-  // and unmethylated reads interleave down the pileup, so both alleles are on
-  // screen and neither is legible. Same locus, tracks and coloring as the
-  // combined figure, so the only difference between the two pictures is the
-  // grouping.
+  // The two halves of Group by HP, composed into one before/after (reviewer:
+  // "ungrouped and grouped would benefit from being in a two part screenshot").
+  // Same locus, same tracks, same coloring in both, so the grouping is the only
+  // difference between them and the reader is not asked to hold the first
+  // picture in mind across a section break. Built from these two url specs
+  // rather than by hand: each half is a real capture, and the compose below is
+  // what the tutorial embeds.
+  //
+  // The reads lane is shorter here than in the combined figure below, because
+  // this one pays for it twice.
   {
     mode: 'url',
     name: 'methylation/hg002_snrpn_ungrouped',
@@ -318,7 +322,7 @@ export const methylationSpecs: ScreenshotSpec[] = [
         {
           trackId: 'HG002_snrpn_5mC_reads',
           type: 'LinearAlignmentsDisplay',
-          height: 460,
+          height: 320,
           forceLoad: true,
           colorBy: {
             type: 'modifications',
@@ -330,8 +334,58 @@ export const methylationSpecs: ScreenshotSpec[] = [
     readySelector: '[data-testid="pileup-display-done"]',
     readyTimeout: 90000,
     settleMs: 15000,
-    // cpg(40) + gene(90) + reads(460) + chrome
-    viewportHeight: 870,
+    // cpg(40) + gene(90) + reads(320) + chrome
+    viewportHeight: 730,
+  },
+
+  // The other half: identical to the spec above but for `groupBy` on the HP tag,
+  // which is the whole claim the section makes.
+  {
+    mode: 'url',
+    name: 'methylation/hg002_snrpn_grouped',
+    url: lgvSession(DEMO_CONFIG, {
+      assembly: 'hg38',
+      loc: 'chr15:24,948,000-24,962,000',
+      tracks: [
+        {
+          trackId: 'cpgisland_ucsc_hg38',
+          type: 'LinearBasicDisplay',
+          height: 40,
+        },
+        {
+          trackId: 'ncbi_refseq_109_hg38_latest',
+          type: 'LinearBasicDisplay',
+          geneGlyphMode: 'longestCoding',
+          displayMode: 'compact',
+          height: 90,
+        },
+        {
+          trackId: 'HG002_snrpn_5mC_reads',
+          type: 'LinearAlignmentsDisplay',
+          height: 320,
+          forceLoad: true,
+          groupBy: { type: 'tag', tag: 'HP' },
+          colorBy: {
+            type: 'modifications',
+            modifications: { fillUnmarked: true },
+          },
+        },
+      ],
+    }),
+    readySelector: '[data-testid="pileup-display-done"]',
+    readyTimeout: 90000,
+    settleMs: 15000,
+    // cpg(40) + gene(90) + reads(320) + chrome
+    viewportHeight: 730,
+  },
+
+  {
+    mode: 'compose',
+    name: 'methylation/hg002_snrpn_group_by_hp',
+    parts: [
+      'methylation/hg002_snrpn_ungrouped',
+      'methylation/hg002_snrpn_grouped',
+    ],
   },
 
   // Allele-specific methylation at the SNRPN / PWS-IC imprinting center

diff --git a/website/docs/tutorials/methylation.md b/website/docs/tutorials/methylation.md
@@ -61,9 +61,8 @@ covers both modes, the probability threshold, and the cytosine-context submenu.
 
 At this point the reads carry the answer but do not show it: the pileup over the
 CpG island is an interleaved mix of methylated and unmethylated reads, and
-nothing in that mix says whether it is one allele or two.
-
-<Figure caption="HG002 ONT reads over the SNRPN CpG island, colored by 5mC with unmethylated CpGs filled in blue, stacked in file order. Red-dominant and blue-dominant reads alternate down the pileup, so both alleles are on screen and neither is legible. Same locus, tracks and coloring as the figure below, which differs only in the grouping." src="/img/methylation/hg002_snrpn_ungrouped.png" />
+nothing in that mix says whether it is one allele or two. Splitting them apart
+is one setting, two sections below.
 
 ## Aggregate methylation with modkit bedMethyl
 
@@ -112,6 +111,8 @@ allele. **Group by** the `HP` tag from the track menu, leave coloring on
 modifications, and the pileup stacks into one band per haplotype, computed in
 the browser with no external tool. The interleaved mix from the first section
 resolves: one band is methylated over the island, the other is not.
+
+<Figure caption="HG002 ONT reads over the SNRPN CpG island, colored by 5mC with unmethylated CpGs in blue. Top: file order, where methylated and unmethylated reads alternate down the pileup. Bottom: the same reads grouped by the HP tag, one band per haplotype. Only the grouping differs." src="/img/methylation/hg002_snrpn_group_by_hp.png" links="Ungrouped=methylation/hg002_snrpn_ungrouped,Grouped by HP=methylation/hg002_snrpn_grouped" />
 
 Loading the two per-haplotype bedMethyl files above the reads puts the summary
 and its source in the same view, on one x scale.
